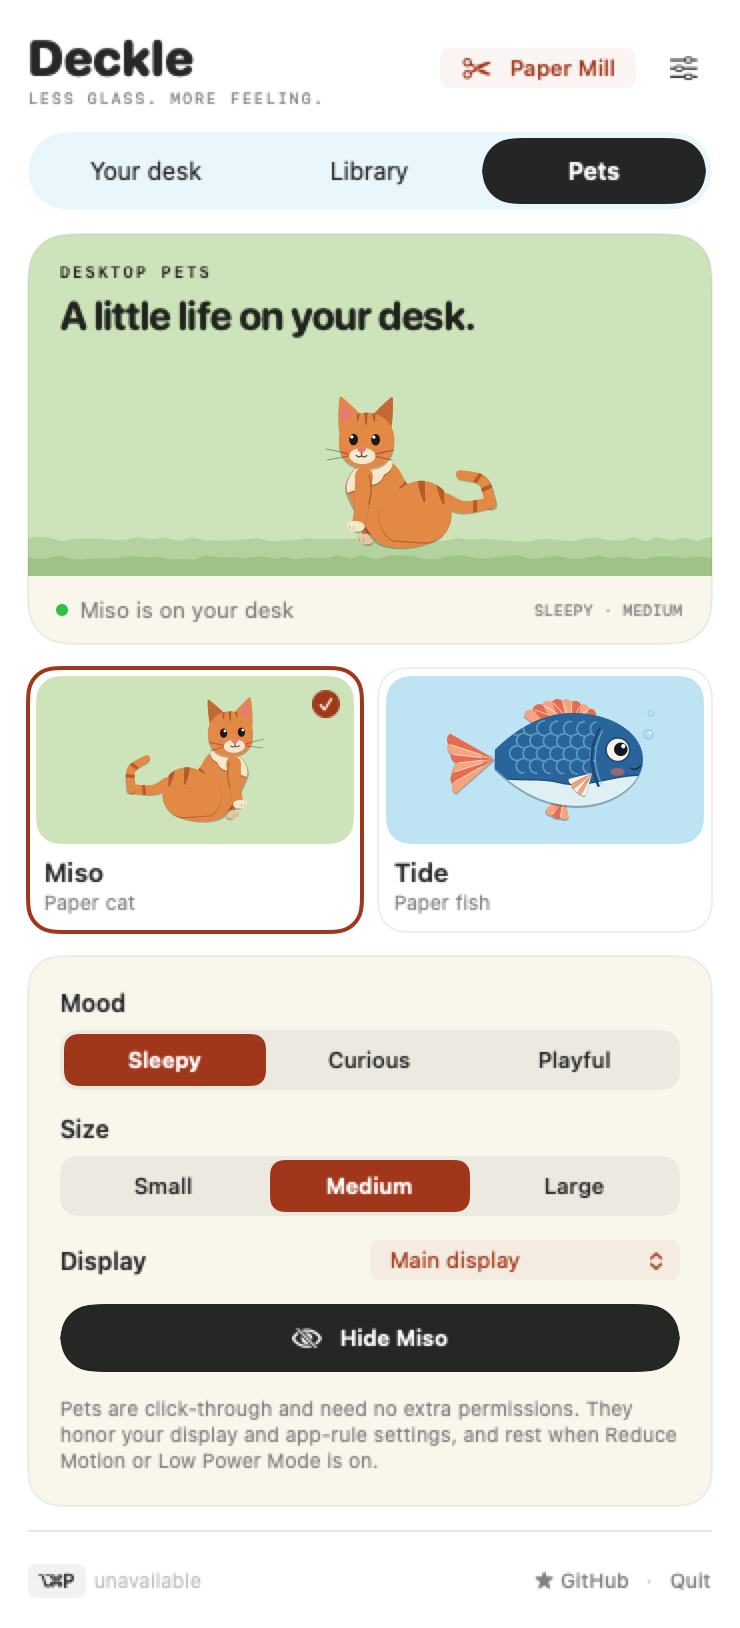
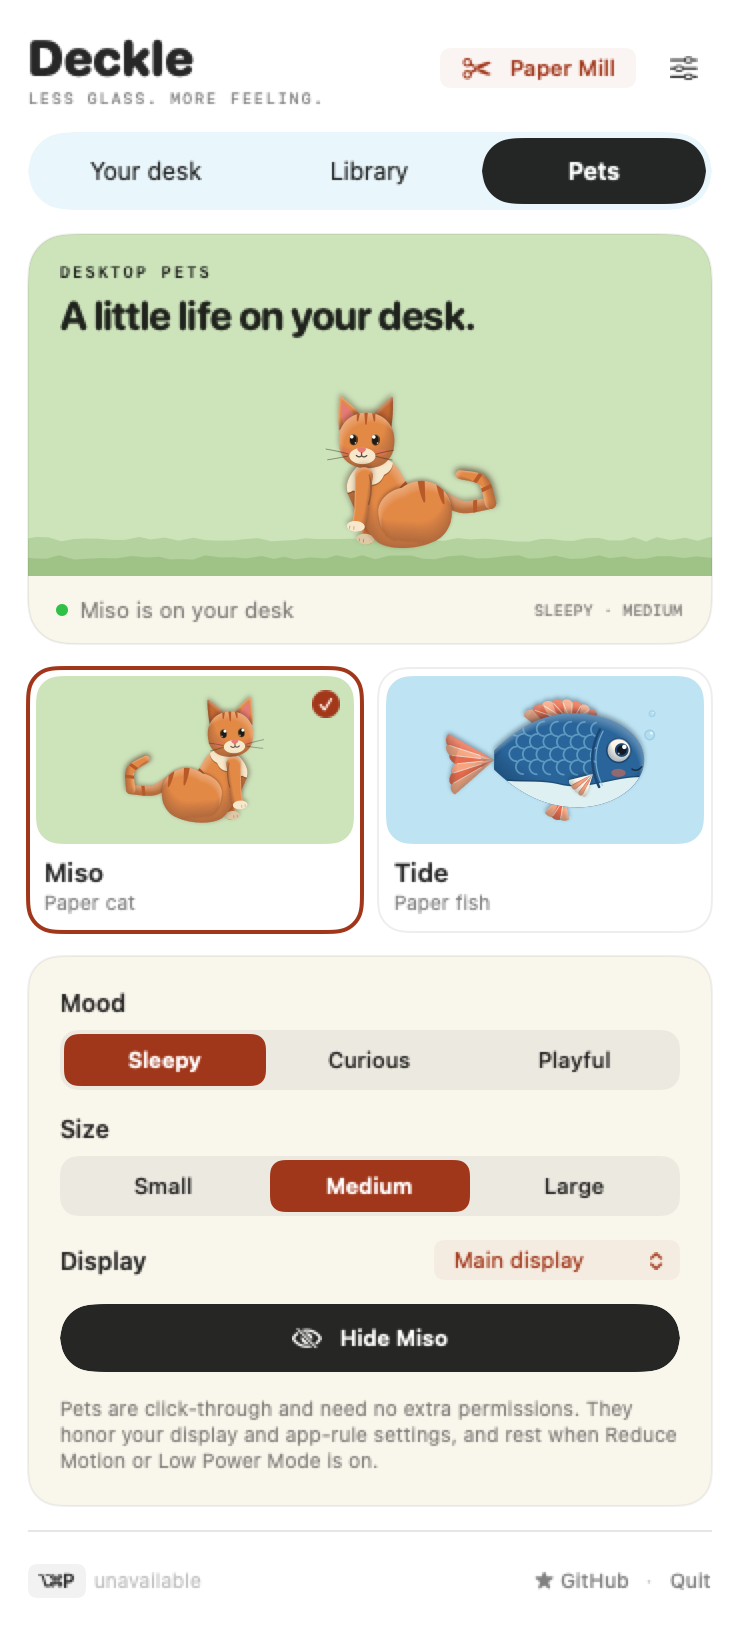
Pets: soft form shading, cast shadows, and glossy eyes for a 3D look

diff --git a/Sources/Deckle/PetArtwork.swift b/Sources/Deckle/PetArtwork.swift
@@ -42,19 +42,68 @@ enum PetArtwork {
         return layer
     }
 
-    /// One cut piece of paper in its own pivoting group, over a crisp
-    /// under-shadow a hair below it — the piece reads as resting on whatever
-    /// lies beneath. Details added to the group ride along with the piece.
+    /// Light falls from above and a little ahead of the pet (canvas y is up;
+    /// both pets face +x), so every piece has a lit crown and a shaded
+    /// underside. Mirroring the figure mirrors the light with it, as in any
+    /// hand-drawn sprite.
+    static let light = CGVector(dx: 0.42, dy: 0.91)
+
+    /// One cut piece in its own pivoting group, rounded by soft form shading
+    /// and lifted off whatever lies beneath by a blurred shadow. The shadow
+    /// is drawn from the path alone, so its blur never depends on animated
+    /// content. Details added to the group ride along with the piece and
+    /// sit under its shading, so stripes and patches curve with the form.
     static func piece(_ path: CGPath, fill: NSColor, shade: NSColor,
                       pivot: CGPoint? = nil, depth: CGFloat = 1.3) -> CALayer {
         let group = self.group(pivot: pivot)
-        if depth > 0 {
-            let shadow = shape(path, fill: shade)
-            shadow.setAffineTransform(CGAffineTransform(translationX: 0, y: -depth))
-            group.addSublayer(shadow)
-        }
+        lift(group, path: path, shade: shade, depth: depth)
         group.addSublayer(shape(path, fill: fill))
+        group.addSublayer(volume(path, shade: shade))
         return group
+    }
+
+    /// A soft cast shadow under `layer`, shaped by `path`.
+    static func lift(_ layer: CALayer, path: CGPath, shade: NSColor, depth: CGFloat) {
+        guard depth > 0 else { return }
+        layer.shadowPath = path
+        layer.shadowColor = shade.withAlphaComponent(1).cgColor
+        layer.shadowOpacity = Float(min(0.6, shade.alphaComponent * 1.25))
+        layer.shadowRadius = depth * 1.2
+        layer.shadowOffset = CGSize(width: 0, height: -depth * 1.3)
+    }
+
+    /// Form shading clipped to `path` at build time: stacked translucent
+    /// bands — the path minus copies of itself slid along the light — that
+    /// read as a smooth gradient without masks or per-frame work. Sits above
+    /// later details (zPosition 1) so markings shade with the surface.
+    static func volume(_ path: CGPath, shade: NSColor, highlight: NSColor = .white,
+                       strength: CGFloat = 1) -> CALayer {
+        let layer = group()
+        layer.zPosition = 1
+        let box = path.boundingBoxOfPath
+        let reach = min(13, 0.42 * min(box.width, box.height))
+        guard reach > 0.6 else { return layer }
+        func band(_ along: CGFloat) -> CGPath {
+            var slide = CGAffineTransform(translationX: light.dx * along, y: light.dy * along)
+            guard let moved = path.copy(using: &slide) else { return CGMutablePath() }
+            return path.subtracting(moved)
+        }
+        // Many faint, evenly stepped bands: each edge accumulates every band
+        // that reaches it, so darkness falls off smoothly instead of in
+        // visible terraces even at 3×.
+        let shadowBands = 9
+        let core = shade.withAlphaComponent(0.036 * strength)
+        for index in 1...shadowBands {
+            let fraction = CGFloat(index) / CGFloat(shadowBands)
+            layer.addSublayer(shape(band(reach * fraction), fill: core))
+        }
+        let sheenBands = 7
+        let sheen = highlight.withAlphaComponent(0.042 * strength)
+        for index in 1...sheenBands {
+            let fraction = CGFloat(index) / CGFloat(sheenBands)
+            layer.addSublayer(shape(band(-reach * 0.5 * fraction), fill: sheen))
+        }
+        return layer
     }
 
     // MARK: Paths
@@ -139,15 +188,13 @@ enum PetArtwork {
         }
     }
 
-    /// A pleated fan as one paper piece: shared under-shadow, alternating
-    /// tones, and a pale crease down every fold.
+    /// A pleated fan as one paper piece: soft cast shadow, alternating
+    /// tones, a pale crease down every fold, and gentle form shading.
     static func fanPiece(_ wedges: [CGPath], tones: (NSColor, NSColor), crease: NSColor,
                          shade: NSColor, pivot: CGPoint, depth: CGFloat = 1.1) -> CALayer {
         let outline = wedges.dropFirst().reduce(wedges.first ?? CGMutablePath()) { $0.union($1) }
         let group = self.group(pivot: pivot)
-        let shadow = shape(outline, fill: shade)
-        shadow.setAffineTransform(CGAffineTransform(translationX: 0, y: -depth))
-        group.addSublayer(shadow)
+        lift(group, path: outline, shade: shade, depth: depth)
         let folds = CGMutablePath()
         for (index, wedge) in wedges.enumerated() {
             group.addSublayer(shape(wedge, fill: index.isMultiple(of: 2) ? tones.0 : tones.1))
@@ -157,6 +204,7 @@ enum PetArtwork {
             }
         }
         group.addSublayer(line(folds, color: crease, width: 0.6))
+        group.addSublayer(volume(outline, shade: shade, strength: 0.8))
         return group
     }
 
@@ -368,6 +416,15 @@ private final class CatFigure {
         blob.shadowRadius = 2.6
         blob.shadowOffset = .zero
         groundShadow.addSublayer(blob)
+        // A tighter, darker core right under the paws grounds the figure.
+        let contact = CALayer()
+        contact.frame = CGRect(origin: .zero, size: PetArtwork.canvas)
+        contact.shadowPath = a.ellipse(CGPoint(x: 76, y: ground + 0.5), 66, 3.2)
+        contact.shadowColor = NSColor.black.cgColor
+        contact.shadowOpacity = 0.22
+        contact.shadowRadius = 1.1
+        contact.shadowOffset = .zero
+        groundShadow.addSublayer(contact)
 
         torso = a.group(pivot: Self.hip)
         front = a.group(pivot: Self.waist)
@@ -384,6 +441,8 @@ private final class CatFigure {
         tailTip.addSublayer(a.shape(tailEnd.intersection(rings), fill: stripe))
         let baseRing = a.ribbon([CGPoint(x: 22, y: 58), CGPoint(x: 32, y: 66)], widths: [2.4, 2.4])
         tail.addSublayer(a.shape(tailBase.intersection(baseRing), fill: stripe))
+        // A nested piece must stay above its parent's shading.
+        tailTip.zPosition = 2
         tail.addSublayer(tailTip)
 
         // Legs: tapered strips with mitten paws, far pair a shade darker.
@@ -506,15 +565,25 @@ private final class CatFigure {
         head.addSublayer(earNear)
         head.addSublayer(face)
 
-        // Eyes: ink ovals with a catchlight, blinking about their own centres
-        // and shifting together toward the cursor.
+        // Eyes: amber irises with ink pupils, a big catchlight and a small
+        // reflected glint, so they read as glossy domes. They blink about
+        // their own centres and shift together toward the cursor.
+        let amber = a.color(0.545, 0.388, 0.122)
         look = a.group()
         var eyes: [CALayer] = []
         for center in [CGPoint(x: 114.5, y: 71.5), CGPoint(x: 128, y: 71.5)] {
             let eye = a.group(pivot: center)
-            eye.addSublayer(a.shape(a.ellipse(center, 5.4, 7), fill: ink))
-            eye.addSublayer(a.shape(a.ellipse(CGPoint(x: center.x + 1.1, y: center.y + 1.6), 2, 2),
-                                    fill: .white))
+            let ball = a.ellipse(center, 5.4, 7)
+            eye.addSublayer(a.shape(ball, fill: amber))
+            eye.addSublayer(a.shape(a.ellipse(CGPoint(x: center.x + 0.2, y: center.y), 3.9, 6), fill: ink))
+            eye.addSublayer(a.volume(ball, shade: ink, strength: 1.4))
+            let glints = a.group(pivot: center)
+            glints.zPosition = 2
+            glints.addSublayer(a.shape(a.ellipse(CGPoint(x: center.x + 1.1, y: center.y + 1.7), 2.2, 2.2),
+                                       fill: .white))
+            glints.addSublayer(a.shape(a.ellipse(CGPoint(x: center.x - 1.2, y: center.y - 2), 1, 1),
+                                       fill: .white.withAlphaComponent(0.7)))
+            eye.addSublayer(glints)
             look.addSublayer(eye)
             eyes.append(eye)
         }
@@ -874,13 +943,21 @@ private final class FishFigure {
         // A big friendly eye with a catchlight; the pupil tracks the cursor.
         let eyeCenter = CGPoint(x: 126, y: 67)
         eye = a.group(pivot: eyeCenter)
-        let white = a.shape(a.ellipse(eyeCenter, 15, 15), fill: cream)
+        let sclera = a.ellipse(eyeCenter, 15, 15)
+        let white = a.shape(sclera, fill: cream)
         white.strokeColor = blueDeep.cgColor
         white.lineWidth = 1
         eye.addSublayer(white)
+        // The eyeball shades like a sphere; the pupil rides above it.
+        eye.addSublayer(a.volume(sclera, shade: blueDeep, strength: 1.3))
         pupil = a.group(pivot: eyeCenter)
-        pupil.addSublayer(a.shape(a.ellipse(CGPoint(x: eyeCenter.x + 1.4, y: eyeCenter.y), 8.6, 8.6), fill: ink))
+        pupil.zPosition = 2
+        let pupilCenter = CGPoint(x: eyeCenter.x + 1.4, y: eyeCenter.y)
+        pupil.addSublayer(a.shape(a.ellipse(pupilCenter, 8.6, 8.6), fill: blueDeep))
+        pupil.addSublayer(a.shape(a.ellipse(pupilCenter, 6, 6), fill: ink))
         pupil.addSublayer(a.shape(a.ellipse(CGPoint(x: eyeCenter.x + 3, y: eyeCenter.y + 2), 2.8, 2.8), fill: .white))
+        pupil.addSublayer(a.shape(a.ellipse(CGPoint(x: eyeCenter.x - 0.4, y: eyeCenter.y - 2.2), 1.2, 1.2),
+                                  fill: .white.withAlphaComponent(0.7)))
         eye.addSublayer(pupil)
         let lid = CGMutablePath()
         lid.move(to: CGPoint(x: eyeCenter.x - 5.5, y: eyeCenter.y))

diff --git a/AGENTS.md b/AGENTS.md
@@ -69,6 +69,7 @@ Before shipping a code change, run `swift test`. For release-sensitive changes, 
   - Do not add wall-clock reads, system randomness, or `hashValue`.
 - Pet animation is one ~30 Hz timer updating retained layer transforms and a small window frame. Stop it when pets are off/hidden, the display sleeps, or the session is inactive; under Reduce Motion or Low Power Mode the pet stays visible but settles into a grounded still pose. Do not render textures or rebuild artwork per frame.
 - Every pet layer is canvas-sized with an explicit pivot, so all paths share one canvas space and anchor rotations work.
+- Pet volume comes from `PetArtwork.piece`/`fanPiece`: a soft `shadowPath` cast shadow plus `volume(_:)` form shading — translucent bands built at build time by subtracting the path from copies slid along `PetArtwork.light`. No masks, filters, or gradients. The shading layer has `zPosition` 1 so details added later sit under it; anything that must draw above a piece's shading inside the same group (a nested piece like the tail tip, eye glints, a pupil) needs `zPosition` 2.
 - `PetRig` never writes the host-owned `root` transform; hosts size it with `place(in:)`. Overlays (sleep z's, bubbles) live unflipped in root space.
 - No pose may draw outside the 160 × 120 canvas; `PetArtworkTests` sweeps every mood to enforce it.
 - Keep posture arithmetic in short typed terms (`weigh`). The Xcode 15 release compiler can time out on long literal `CGFloat` expressions.
